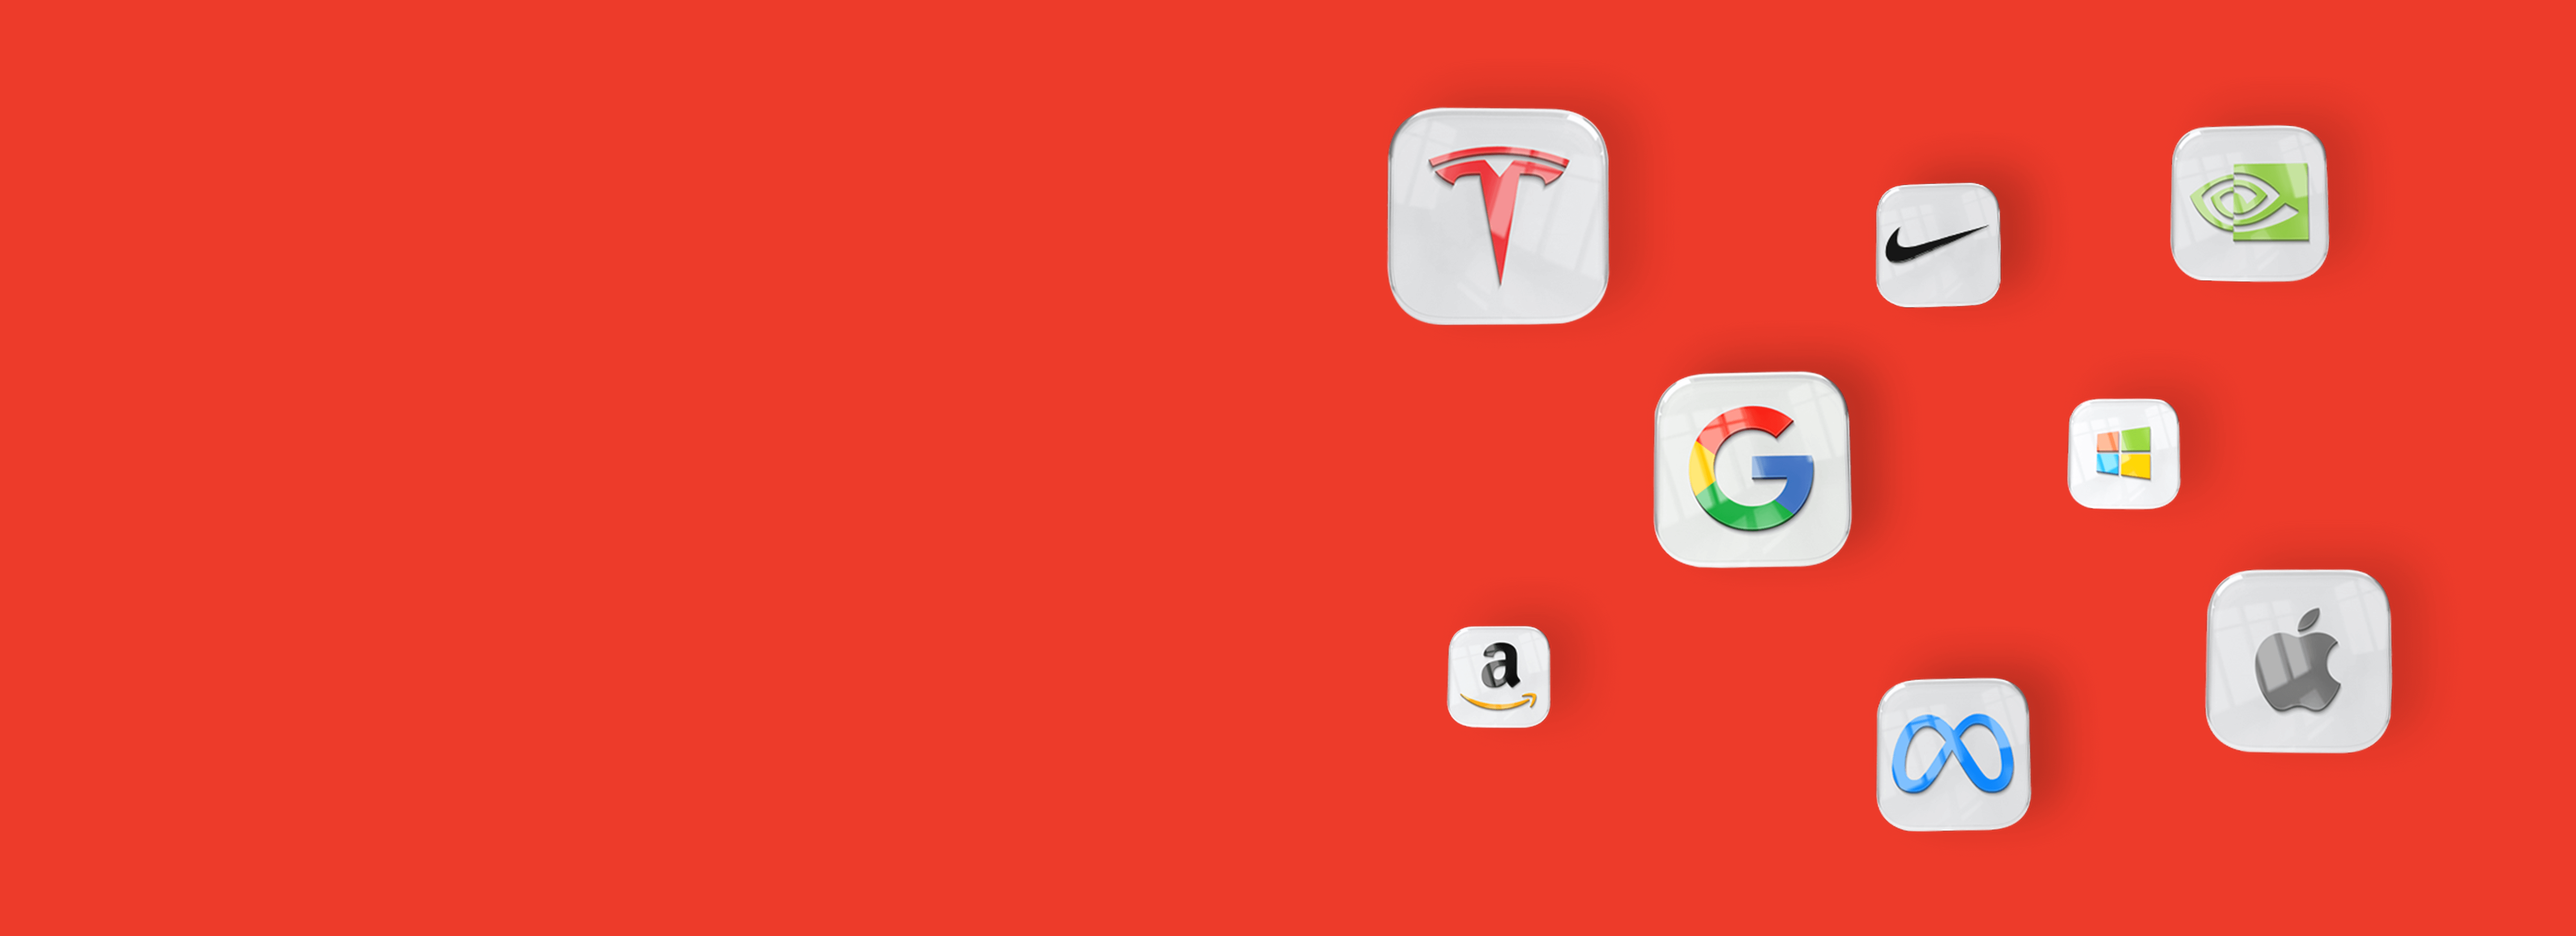
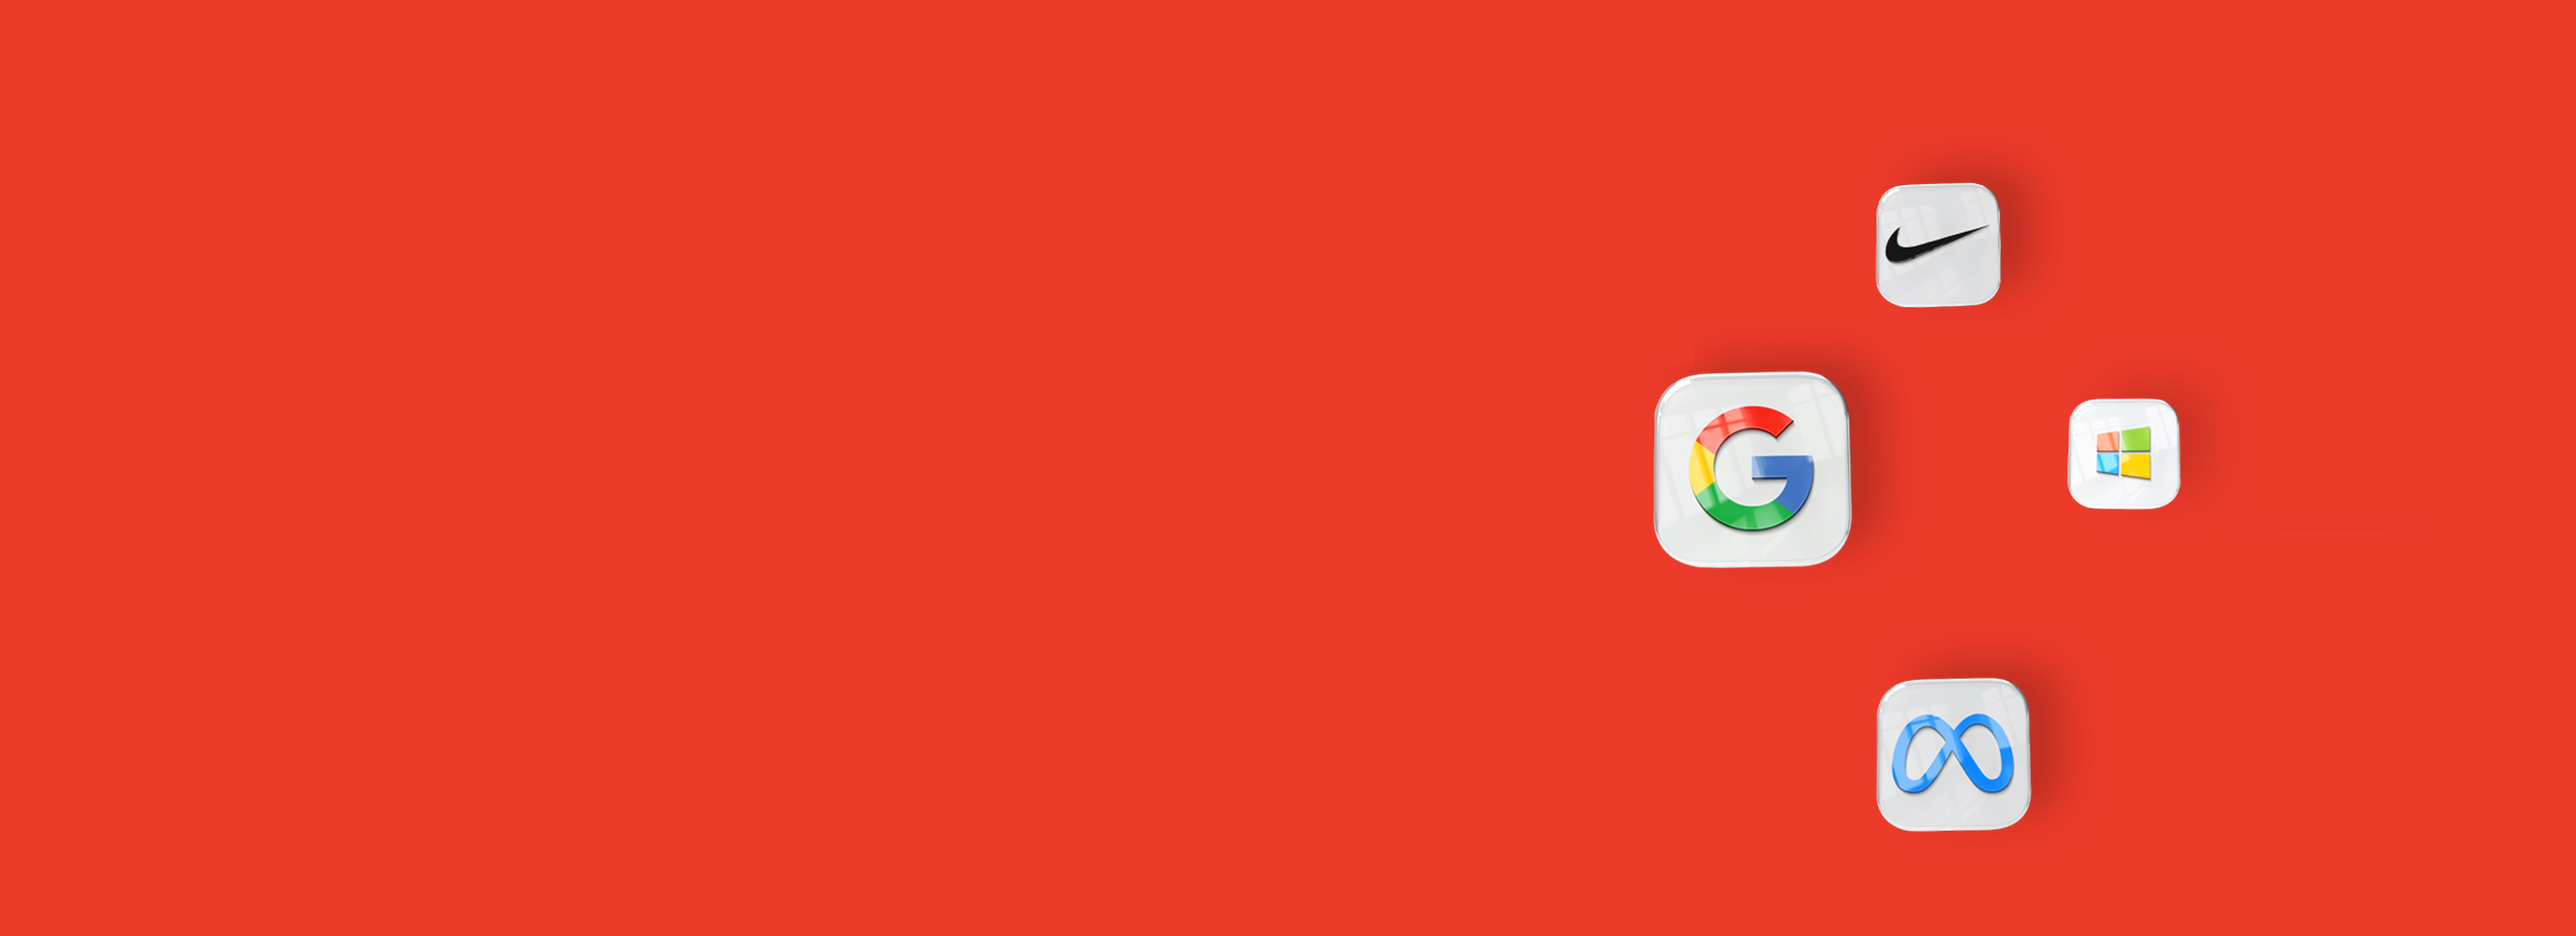
update stock animation images

diff --git a/assets/css/responsive.css b/assets/css/responsive.css
@@ -1,5 +1,5 @@
 /* Below 768px - Mobile */
-@media (max-width: 767px) { 
+@media (max-width: 767.99px) { 
     #content canvas {
         width: 100%;
     }
@@ -10,7 +10,7 @@
 }
 
 /* 768px - 1024px - Tablet */
-@media (min-width: 768px) and (max-width: 1024px) { 
+@media (min-width: 768px) and (max-width: 1023.99px) { 
 
     .container, .container-fluid, .container-lg, .container-md, .container-sm, .container-xl, .container-xxl{
         --bs-gutter-x: 1.5rem !important;
@@ -40,16 +40,72 @@
 }
 
 /* 1025px - 1499px - Desktop */
-@media (min-width: 1025px) and (max-width: 1699px) { 
+@media (min-width: 1024px) and (max-width: 1699.99px) { 
+    body{
+        font-size: 0.85rem !important;
+    }
+    
     .container, .container-lg, .container-md, .container-sm, .container-xl, .container-xxl {
         max-width: 1400px;
+    }
+    
+    .h2{
+        font-size: 2.2rem !important;
+    }
+
+    .top-bar .flag-text, .top-bar{
+        font-size: 11px !important;
+    }
+
+    li.nav-item, .demo-account-btn, .live-account-btn{
+        font-size: 0.75rem !important;
+    }
+
+    .stock-tesla-icon{ 
+        width: 150px !important; 
+        height: 150px !important; 
+        margin: 50px 375px !important;
+    }
+
+    .stock-amazon-icon{
+        width: 150px !important; 
+        height: 150px !important; 
+        margin: -240px 375px !important;
+    }
+
+    .stock-nikkie-icon{
+        width: 120px !important; 
+        height: 120px !important; 
+        margin: 70px 0 !important;
+    }
+
+    .stock-apple-icon{
+        width: 100px !important; 
+        height: 100px !important; 
+        margin: -200px 0 !important;
     }
 }
 
 /* 1500px - 1999px - Large Screens */
-@media (min-width: 1700px) and (max-width: 1999px) {
+@media (min-width: 1700px) and (max-width: 1999.99px) {
     .nav-link {
         margin: 0 25px !important;
+    }
+
+    .stock-tesla-icon{ 
+        margin: 70px 325px !important;
+    }
+
+    .stock-amazon-icon{
+        margin: -250px 375px !important;
+    }
+
+    .stock-nikkie-icon{
+        margin: 70px -200px !important;
+    }
+
+    .stock-apple-icon{
+        margin: -200px -200px !important;
     }
 }
 

diff --git a/stock.php b/stock.php
@@ -431,19 +431,15 @@ include_once ('elements/header.php');
 
 <style>
     .stock-section {
-        /* background-color: var(--zed-primary);
         padding: 60px 0;
-        position: relative;
-        overflow: hidden; */
-        padding: 60px 0; /* Adjust padding as needed */
         background-image: url('assets/images/background/stock-trading-background.png');
         color: white;
         background-size: cover;
         background-position: center;
         background-repeat: no-repeat;
         display: flex;
-        align-items: center;   /* Vertical center */
-        justify-content: center; /* Horizontal center */
+        align-items: center;
+        justify-content: center;
     }
 
     .stock-section h2 {
@@ -470,6 +466,31 @@ include_once ('elements/header.php');
         height: 8px; 
         background: white;
     }
+
+    .stock-tesla-icon{
+        width: 200px; 
+        height: 200px; 
+        margin: 70px 370px;
+    }
+
+    .stock-amazon-icon{
+        width: 200px; 
+        height: 200px; 
+        margin: -250px 400px;
+    }
+
+    .stock-nikkie-icon{
+        width: 200px; 
+        height: 200px; 
+        margin: 70px -50px;
+    }
+
+    .stock-apple-icon{
+        width: 150px; 
+        height: 150px; 
+        margin: -200px -100px;
+    }
+
 </style>
 
 <section class="stock-section">
@@ -498,7 +519,12 @@ include_once ('elements/header.php');
 
             <!-- Floating Icons -->
             <div class="col-lg-6 col-md-12 p-0">
-                
+                <div class="position-relative set-diamond-image">
+                    <img src="assets/images/stock-tesla-icon.png" alt="stock tesla icon" class="position-absolute bottom-0 end-0 float-y stock-tesla-icon">
+                    <img src="assets/images/stock-amazon-icon.png" alt="stock amazon icon" class="position-absolute bottom-0 end-0 float-y stock-amazon-icon">
+                    <img src="assets/images/stock-nikkie-icon.png" alt="stock nikkie icon" class="position-absolute bottom-0 end-0 float-y stock-nikkie-icon">
+                    <img src="assets/images/stock-apple-icon.png" alt="stock apple icon" class="position-absolute bottom-0 end-0 float-y stock-apple-icon">
+                </div>
             </div>
         </div>
     </div>
